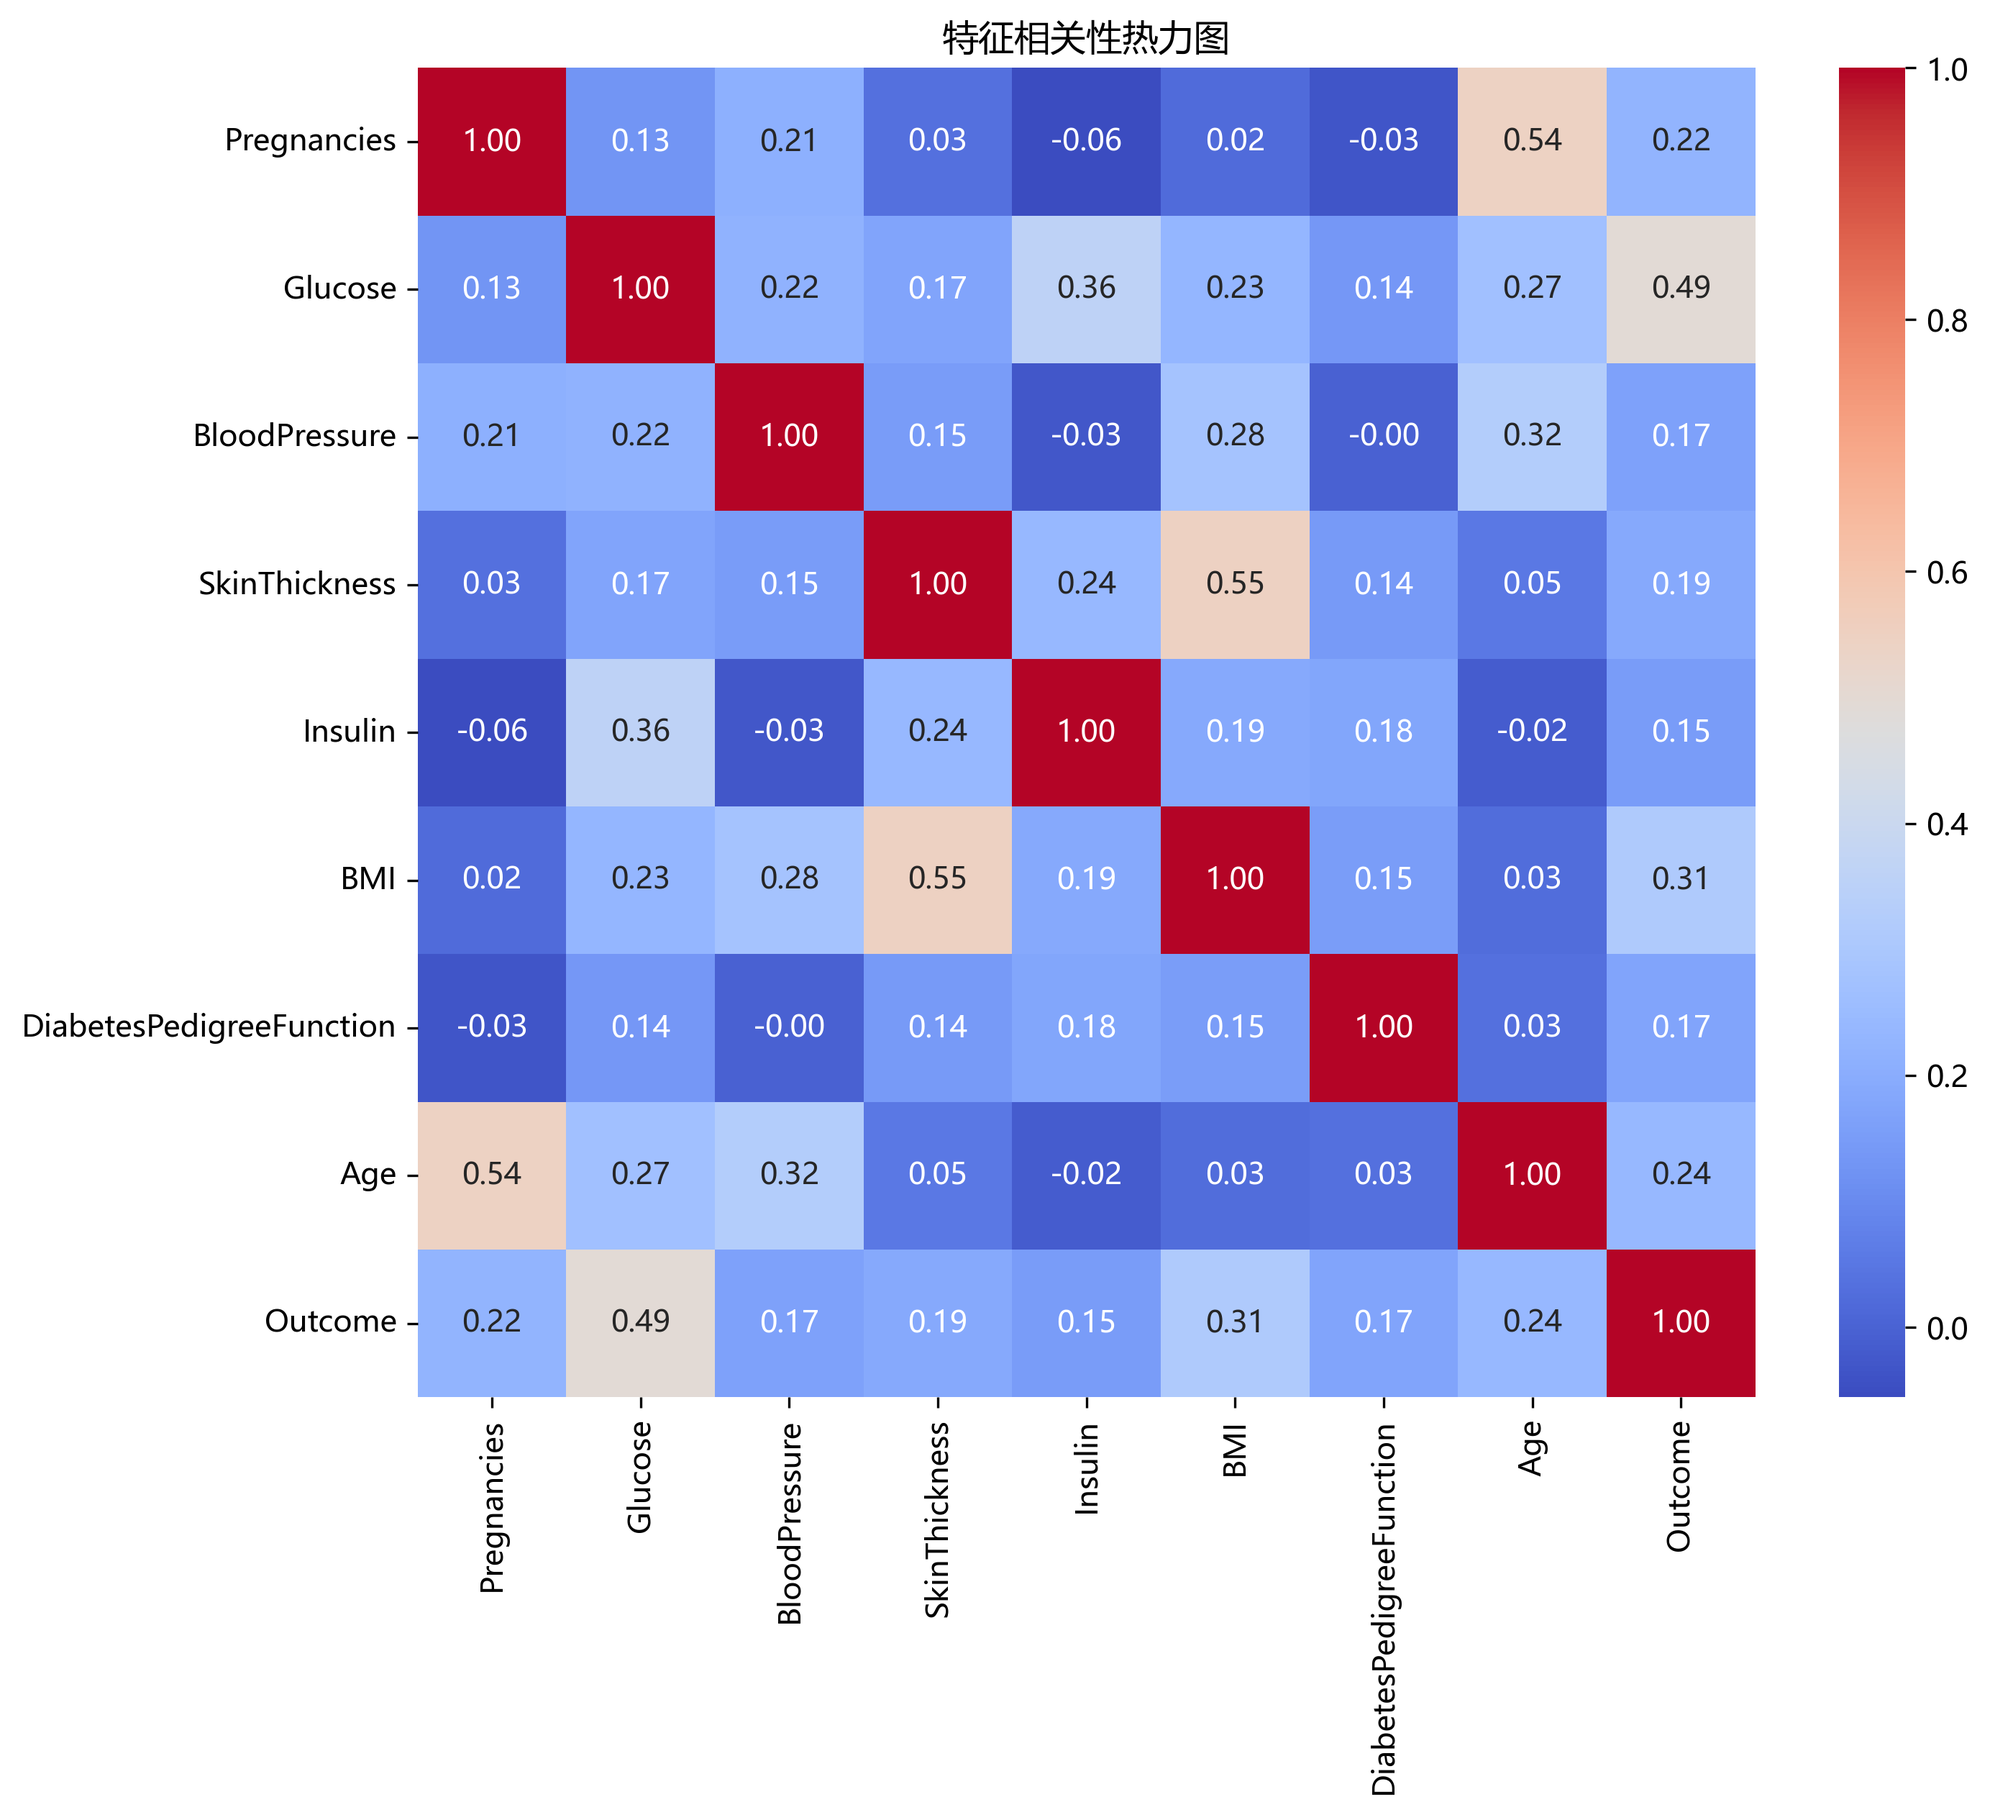
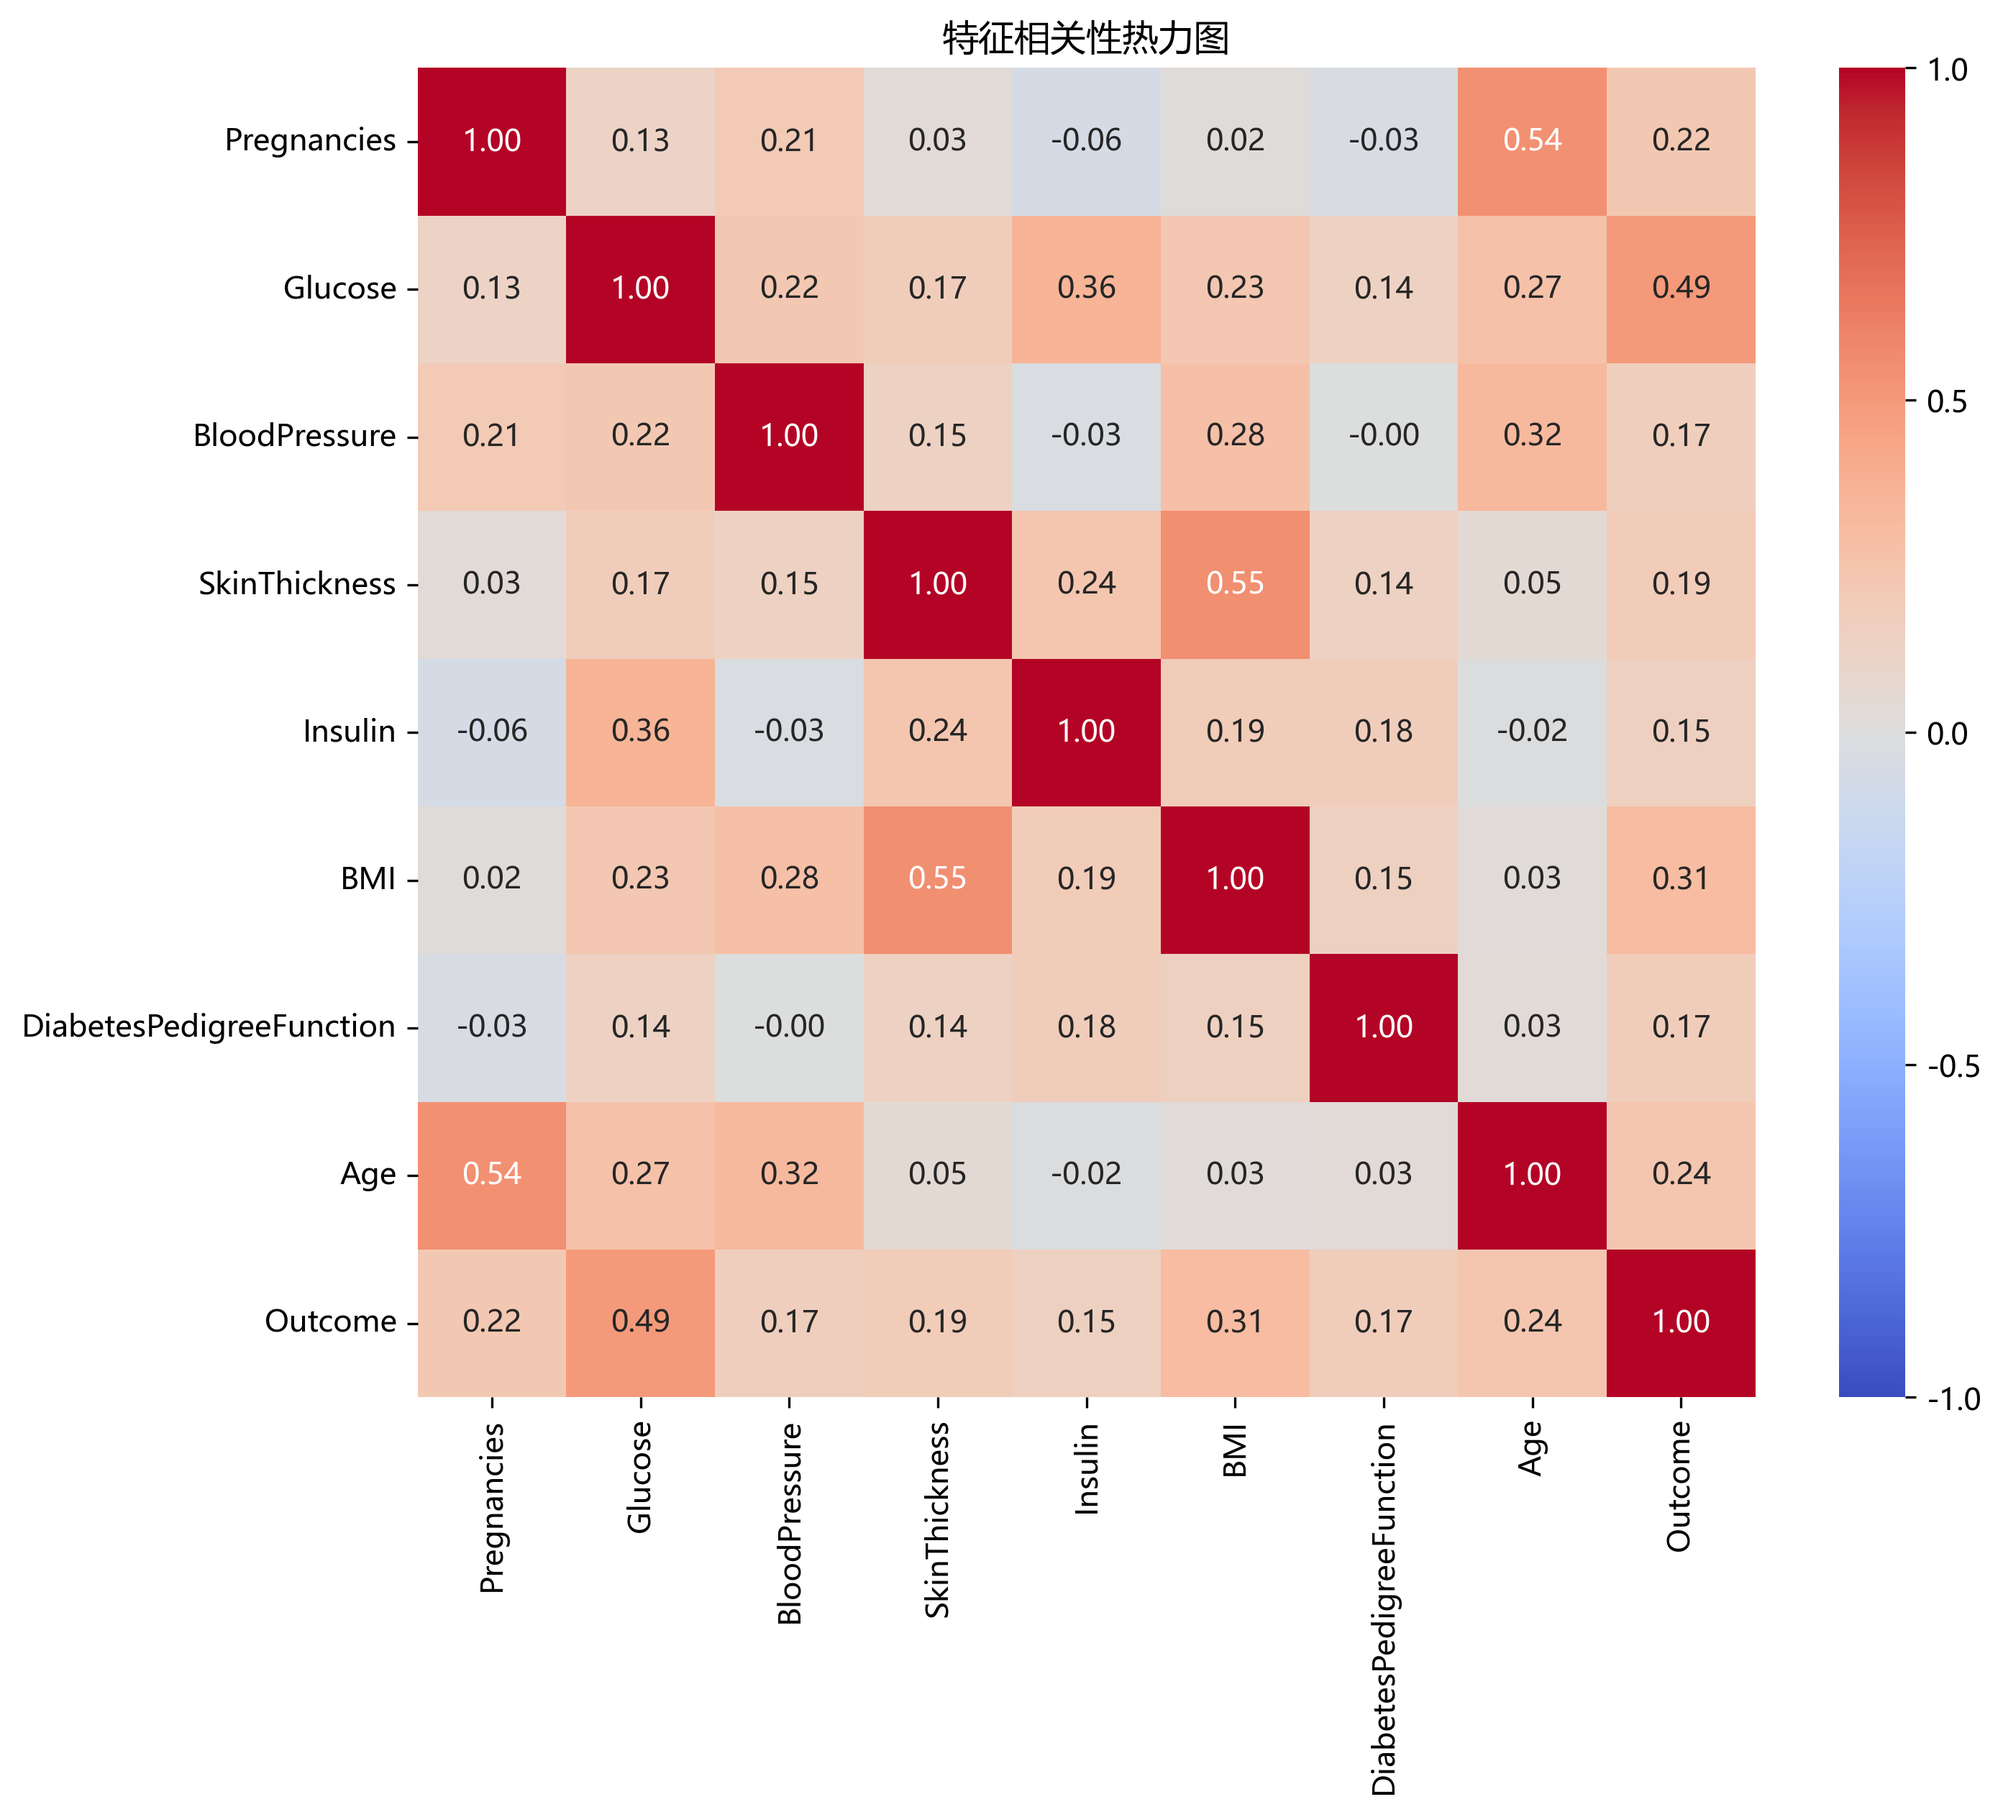
修改了 TensorflowDeepLearn.py 文件，主要是调整了相关性热力图的色阶范围，使其更适合显示相关系数矩阵。新增了 `vmin`、`vmax` 和 `center` 参数来限定色阶为 [-1, 1]，并以 0 为中心。同时添加了 `cbar_kws` 参数来设置颜色条的刻度。

diff --git a/debug/tensorflow_deep_learn/TensorflowDeepLearn.py b/debug/tensorflow_deep_learn/TensorflowDeepLearn.py
@@ -121,7 +121,10 @@ plt.show()
 # 4.3 相关性热力图（临床特征关联性）
 plt.figure(figsize=(10, 8))
 corr = df.corr()
-sns.heatmap(corr, annot=True, cmap='coolwarm', fmt='.2f')
+# 限定色阶为 [-1, 1]，并以 0 为中心，适合相关系数矩阵
+sns.heatmap(corr.clip(-1, 1), annot=True, cmap='coolwarm', fmt='.2f',
+            vmin=-1, vmax=1, center=0,
+            cbar_kws={'ticks': [-1, -0.5, 0, 0.5, 1]})
 plt.title('特征相关性热力图')
 heatmap_path = os.path.join(plot_dir, 'correlation_heatmap.png')
 plt.savefig(heatmap_path, dpi=300, bbox_inches='tight')
